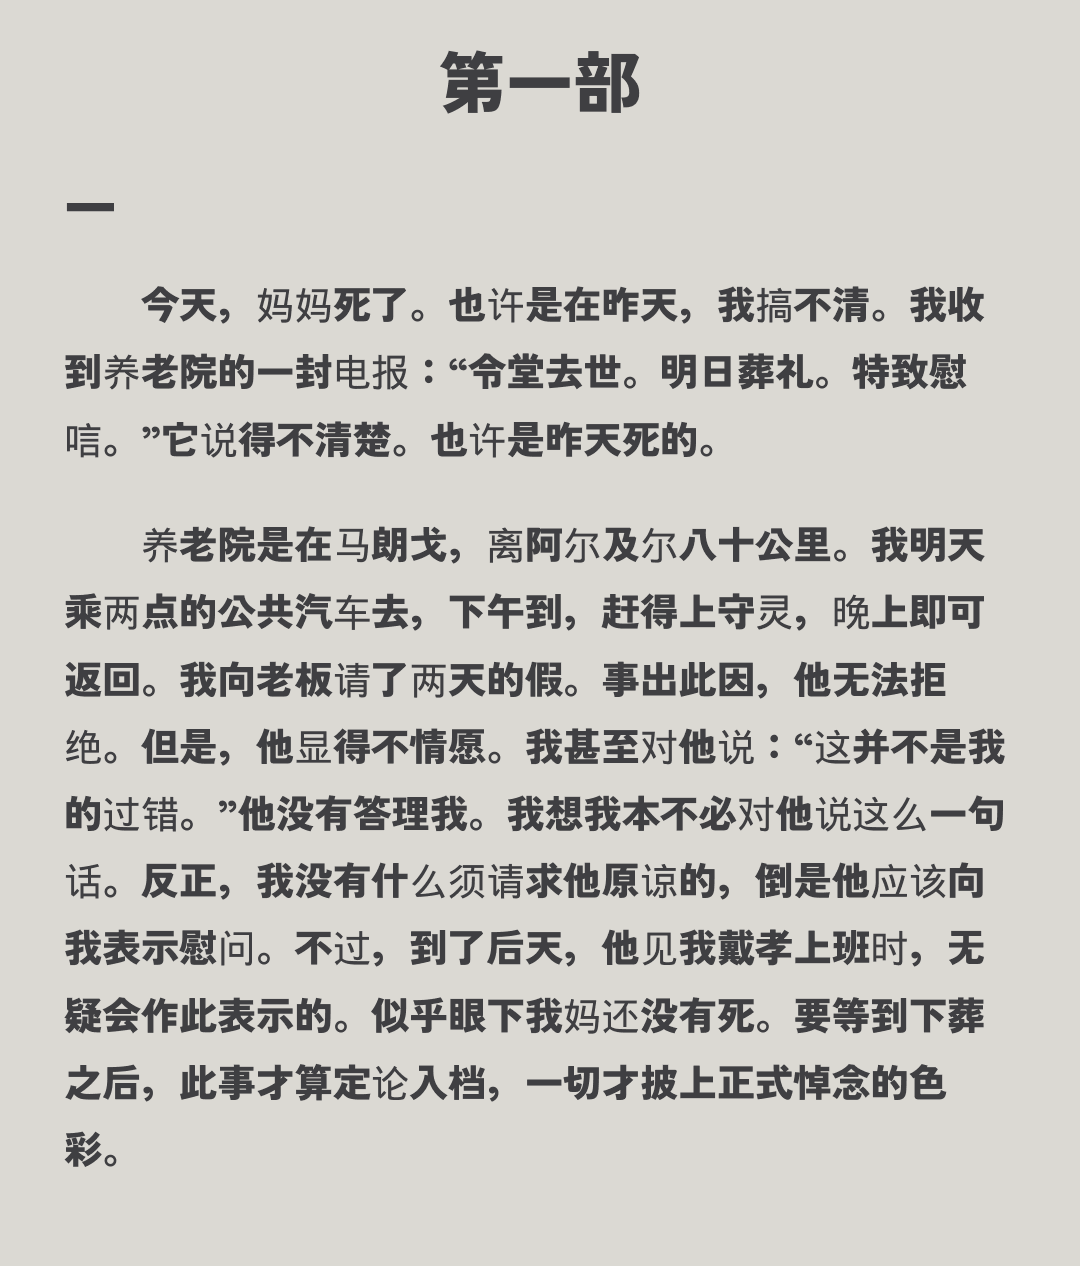
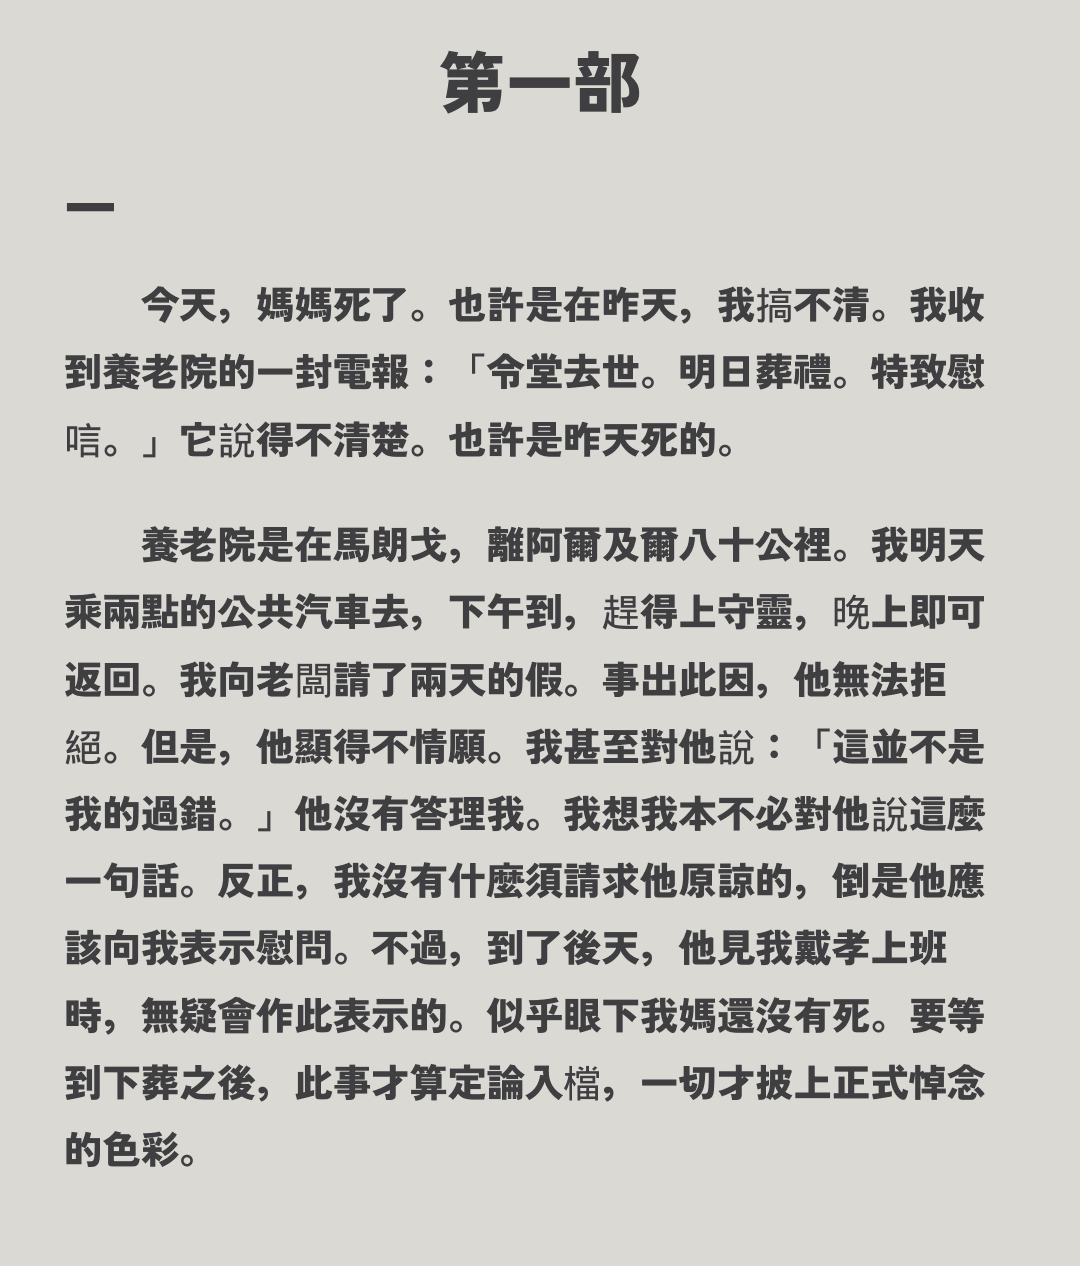
fix: 繁体

diff --git a/scripts/render_font_previews_html.py b/scripts/render_font_previews_html.py
@@ -10,8 +10,11 @@
 通过 PyMuPDF 的 Story（MuPDF HTML/CSS 子集）排版并写入 PDF，再按页光栅化后垂直拼接；
 不依赖 Playwright 或其它浏览器自动化。每次运行会先清空 `--out` 目录内已有文件与子目录。
 
+若字体经 cmap 推断为**仅适合繁体正文**（与 rename 脚本一致的「繁体」判定），则将 HTML 模板中
+标签外的正文用 **zhconv** 转为台湾繁体后再渲染，避免缺简体字形时显示异常。
+
 依赖：
-  pip install pymupdf Pillow
+  pip install pymupdf Pillow fonttools zhconv
 
 用法:
   python scripts/render_font_previews_html.py
@@ -22,10 +25,12 @@
 from __future__ import annotations
 
 import argparse
+import importlib.util
 import io
 import re
 import shutil
 import sys
+from collections.abc import Callable
 from pathlib import Path
 
 try:
@@ -39,6 +44,77 @@ try:
 except ImportError:
     print("请先安装: pip install Pillow", file=sys.stderr)
     sys.exit(1)
+
+try:
+    import zhconv
+except ImportError:
+    zhconv = None  # type: ignore
+
+try:
+    from fontTools.ttLib import TTFont
+except ImportError:
+    print("请先安装: pip install fonttools", file=sys.stderr)
+    sys.exit(1)
+
+def _load_classify_han_variant():
+    """与 rename_ttf_by_fontname 相同的简繁 cmap 判定。"""
+    rename_py = Path(__file__).resolve().parent / "rename_ttf_by_fontname.py"
+    spec = importlib.util.spec_from_file_location("_font_rename_rules", rename_py)
+    if spec is None or spec.loader is None:
+        raise RuntimeError(f"无法加载: {rename_py}")
+    mod = importlib.util.module_from_spec(spec)
+    spec.loader.exec_module(mod)
+    return mod.classify_han_variant
+
+
+_classify_han_variant = _load_classify_han_variant()
+
+
+def convert_html_text_outside_tags(html: str, convert_chunk: Callable[[str], str]) -> str:
+    """只转换尖括号外的文本，保留标签与属性不变。"""
+    parts: list[str] = []
+    i = 0
+    n = len(html)
+    while i < n:
+        if html[i] != "<":
+            j = html.find("<", i)
+            if j == -1:
+                parts.append(convert_chunk(html[i:]))
+                break
+            if j > i:
+                parts.append(convert_chunk(html[i:j]))
+            i = j
+            continue
+        j = html.find(">", i)
+        if j == -1:
+            parts.append(html[i:])
+            break
+        parts.append(html[i : j + 1])
+        i = j + 1
+    return "".join(parts)
+
+
+def template_for_font_variant(template: str, font_path: Path) -> str:
+    """
+    繁体向字体：将模板正文转为 zh-tw，其余变体沿用简体模板。
+    """
+    try:
+        with TTFont(font_path, fontNumber=0) as tt:
+            variant = _classify_han_variant(tt)
+    except Exception:
+        return template
+    if variant != "繁体":
+        return template
+    if zhconv is None:
+        print(
+            f"提示: 字体为繁体向但未安装 zhconv，预览仍用简体模板: {font_path.name}",
+            file=sys.stderr,
+        )
+        return template
+    return convert_html_text_outside_tags(
+        template, lambda s: zhconv.convert(s, "zh-tw")
+    )
+
 
 INVALID_CHARS = re.compile(r'[<>:"/\\|?*\x00-\x1f]')
 
@@ -348,7 +424,8 @@ def main() -> None:
     for i, font_path in enumerate(fonts):
         rel = font_path.resolve().relative_to(root)
         family = f"__PreviewFont_{i}"
-        doc_html = build_preview_html(template, family, rel.as_posix(), eink=eink)
+        tmpl = template_for_font_variant(template, font_path)
+        doc_html = build_preview_html(tmpl, family, rel.as_posix(), eink=eink)
         try:
             pdf_bytes = story_to_pdf_bytes(doc_html, archive, page_rect, args.inset_pt)
         except Exception as e:
